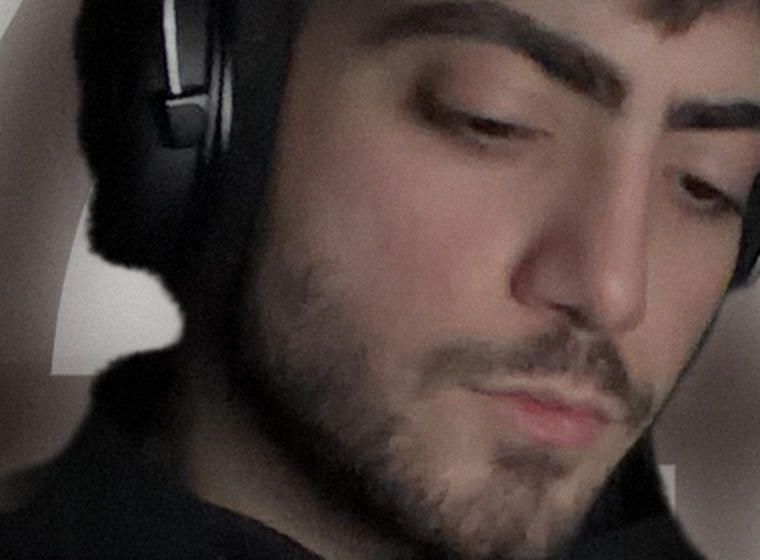
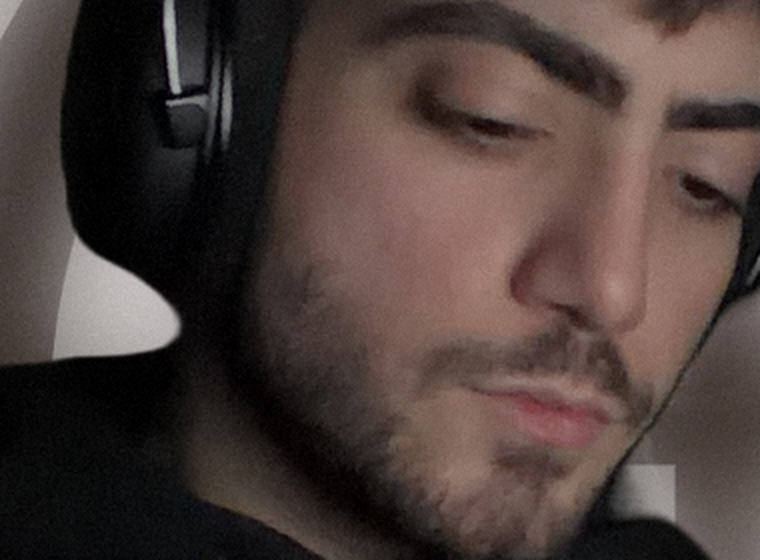
auto: checkpoint 2026-10-07 19:35:05

diff --git a/wiki/playbooks/story-sequence-design-procedure.md b/wiki/playbooks/story-sequence-design-procedure.md
@@ -35,7 +35,7 @@ Content brings the lead, the offer qualifies them, the funnel closes them. Stori
 3. If text needs room above a subject, move the photo down and continue the top edge: take the photo's own top rows, blur them across, tile upward, and cross-fade the first ~320px of the photo into that fill. A hard join or a flat band shows as a visible square.
 4. Add per-pixel dither noise (sigma about 2.6). Do not overlay a tiled grain texture; its tile edges show as squares.
 5. Logo behind the subject: draw the mark as a glow (bloom + faint sharp copy + warm screen), then paste the original photo back through a subject matte so the subject is in front. Place the ring so it never sits under a text line (compute where the ring crosses the text rows).
-6. Subject matte: GrabCut at half resolution seeded by hand-placed shapes (sure-foreground core, probable head and shoulders, sure-background everywhere else; seed the hair explicitly), keep the largest blob, then refine the head with a guided filter on the lifted luminance inside a band around the old edge and tighten with a smoothstep so no dark halo remains. Check at full-res crops.
+6. Subject matte, preferred: the founder runs a background remover on the original and supplies the cutout (RGBA, same aspect as the photo). Verify alignment (mean abs difference to the original under ~2/255 in solid areas), push its alpha through the same cover-crop and shift as the photo, tighten with smoothstep(.18,.92), and composite the ORIGINAL photo through that alpha so colours stay exactly as shot. This gave a clean hair and shoulder edge on the first try. Fallback when no cutout exists: GrabCut at half resolution seeded by hand-placed shapes (sure-foreground core, probable head and shoulders, sure-background everywhere else; seed the hair explicitly), keep the largest blob, then refine the head with a guided filter on the lifted luminance inside a band around the old edge and tighten with a smoothstep so no dark halo remains. Check at full-res crops.
 7. Text and shapes as HTML/CSS/SVG, rendered to PNG with headless Chrome (1080x1920). Keep key content out of the top 250px and bottom 340px.
 8. Tracker/pipeline graphics are our own design (rows with a value and a shrinking bar), never a copy of another product's funnel strip.
 9. QA before showing: zoomed crops of edges, seams and text-graphic contacts; phone-size view; copy diff against the locked file.

diff --git a/AGENT_CHAT.md b/AGENT_CHAT.md
@@ -404,3 +404,6 @@ Slide 1 perfected pass delivered: head re-cut at full resolution (GrabCut on the
 
 ### [2026-10-07 20:00] CLAUDE
 Content-generator gaps. Gap 1: live sync_runs show three stacked causes (posts tool slug removed 2026-09-19 -> Meta token expired 2026-10-02 -> Composio has no connected Instagram account for user owner since 2026-10-04). Rewrote workers/sync/src/jobs/instagram.js onto Zernio (already connected as ab.luiy, its account-insights already produced reach_30d rows). Tests pass; needs a sync worker deploy to verify live. Gap 2: carousel rejections now write a studio_feedback rule tagged 'carousel' (migration 0058 adds studio_feedback.format; loaders fall back if it is missing), approved carousels become examples, operator Reviews screen lists carousels. Nothing deployed or migrated yet.
+
+### [2026-10-07] CLAUDE
+Slide 1 rebuilt with the founder-supplied background-removed cutout as the matte (img/cutout.png, alignment checked). Hair, ear/headphone and shoulder edges inspected at zoom: clean. Procedure doc updated: bg-removed cutout is the preferred matte route.
